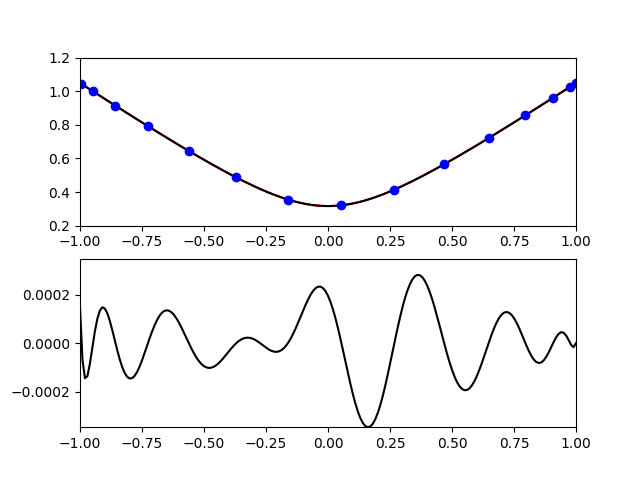
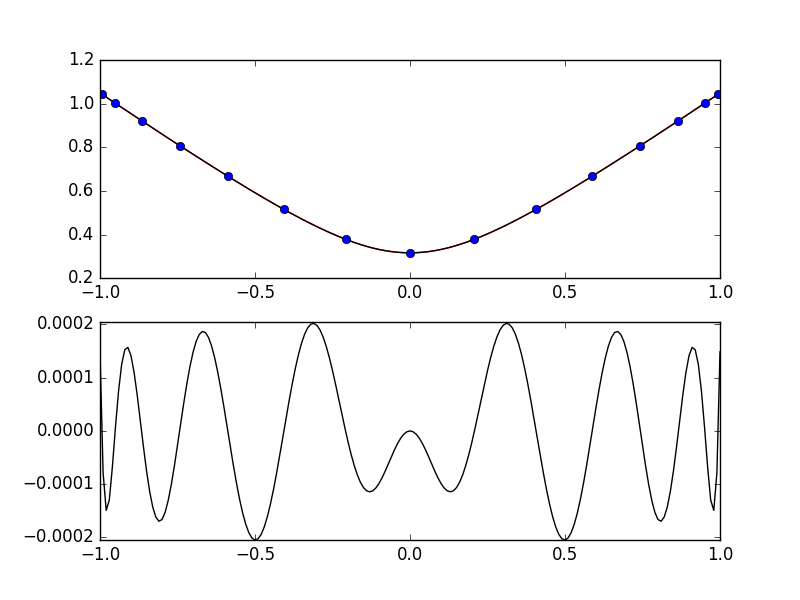
hw4 working

diff --git a/hw04.tex b/hw04.tex
@@ -227,16 +227,16 @@ def p4b():
 	
 	The code above gives the following output.
 	\begin{lstlisting}
-Equispaced points:
+Equispaced points
 Eucidian norm: 0.084877
 Infinity norm: 0.024440
-First kind Chebyshev points:
-Eucidian norm: 0.001919
-Infinity norm: 0.000347
-Second kind Chebyshev points:
+First kind Chebyshev points
+Eucidian norm: 0.001745
+Infinity norm: 0.000205
+Second kind Chebyshev points
 Eucidian norm: 0.001945
 Infinity norm: 0.000266
-Legendre points:
+Legendre points
 Eucidian norm: 0.001945
 Infinity norm: 0.000621
 	\end{lstlisting}
@@ -265,6 +265,9 @@ Infinity norm: 0.000621
 %	\includegraphics[width=.85\textwidth]{hw4_figure_3} \\
 %	\includegraphics[width=.85\textwidth]{hw4_figure_4} \\
 %	%\input{images/hw4_figure_1_tikz}
+
+
+***********************************************************************
 
 	In each of the four figures the top subplot has the function $f(x) = \sqrt{x^2 + .1}$  in black, along with the interpolating polynomial in red, and the sample points in blue. The bottom subplot has the difference between the function and the interpolating polynomial. Note that the interpolating polynomial is so close to the function in figures 2-3 that it is not visible. \bigbreak
 	
@@ -346,6 +349,15 @@ computing the polynomial, the plots, and the slope.
 	$$
 	P_4(x) = \tfrac{1}{4}(x-0)^2 - \tfrac{1}{16}(x-0)^2(x-2)
 	$$
+	
+	We can simplify this and take the derivative
+	\begin{align*}
+		P_4(x) & = \tfrac{1}{4}(x-0)^2 - \tfrac{1}{16}(x-0)^2(x-2) \\
+		& = \tfrac{1}{4}x^2 - \tfrac{1}{16}x^3 + 2\tfrac{1}{16}x^2 \\
+		& = \tfrac{3}{8}x^2 - \tfrac{1}{16}x^3\\
+		P_4^\prime(x) = \tfrac{3}{4}x - \tfrac{3}{16}x^2
+	\end{align*}
+	Then our derivative at $x=2$ is $P_4^\prime(2) = \tfrac{3}{4}$.
 
 	\begin{figure}[H]
 		\caption{The interpolating polynomial with zero slope at the end points}
@@ -356,7 +368,39 @@ computing the polynomial, the plots, and the slope.
 	In figure \ref{fig:p5b}, the interpolating polynomial is in red, the sample points are in blue, and the train tracks are in black. \bigbreak
 	
 %***************************************************************************************************
-\problem{6(c)} Using the same constraints we can also fit two piecwise polynomials that meet at $(2,1)$ and each haveing slope $1$.
+\problem{6(c)} Using the same constraints we can also fit two piecewise polynomials that meet at $(2,1)$ and each having slope $1$. Additionally add the condition that the curves have a second derivative of zero at the ends.
+
+	First we construct the divided difference table for the first piece.
+	\begin{center}
+		\begin{tabular}{|c|c|c|c|c|c|}\hline
+			$x_i$ & $f(x_i)$ & $f[x_{i-1},x_i]$ & $f[x_{x-2}, x_{i-1}, x_i]$ & $f[ x_{i-3}x_{i-2}, x_{i-1}, x_i]$ & $f[ x_{i-4},\dots, x_i]$ \\ \hline
+			0 & 0 & & & & \\ \hline
+			0 & 0 & 0 & & & \\ \hline
+			0 & 0 & 0 & 0 & & \\ \hline
+			2 & 1 & $\tfrac{1}{2}$ & $\tfrac{1}{4}$ & $\tfrac{1}{8}$ & \\ \hline
+			2 & 1 & 1 &  $\tfrac{1}{4}$ & 0 & $-\tfrac{1}{16}$ \\ \hline
+		\end{tabular}
+	\end{center}
+	
+	This gives us the equation $P_4(x) = \tfrac{1}{8}(x-0)^3 - \tfrac{1}{16}(x-0)^3(x-2)$ for $0 \leq x \leq 2$. Next we find calculate the divided difference table for the second piece.
+	\begin{center}
+		\begin{tabular}{|c|c|c|c|c|c|}\hline
+			$x_i$ & $f(x_i)$ & $f[x_{i-1},x_i]$ & $f[x_{x-2}, x_{i-1}, x_i]$ & $f[ x_{i-3}x_{i-2}, x_{i-1}, x_i]$ & $f[ x_{i-4},\dots, x_i]$ \\ \hline
+			2 & 1 & & & & \\ \hline
+			2 & 1 & 1 & & & \\ \hline
+			4 & 2 & $\tfrac{1}{2}$ & $-\tfrac{1}{4}$ & & \\ \hline
+			4 & 2 & 0 & $-\tfrac{1}{4}$ & 0 & \\ \hline
+			4 & 2 & 0 &  0 & $\tfrac{1}{8}$ & $\tfrac{1}{16}$ \\ \hline
+		\end{tabular}
+	\end{center}
+	This gives us the polynomial $Q_4(x) = 1 + 1(x-2) - \tfrac{1}{4}(x-2)^2 + \tfrac{1}{16}(x-2)^2(x-4)^2$ where $2 \leq x \leq 4$. In figure \ref{fig:p5c}, $P_4$ is in red, $Q_4$ is in green, the sample points are in blue, and the train tracks are in black. \bigbreak
+	\begin{figure}[H]
+		\caption{The interpolating polynomial with zero slope at the end points}
+		\includegraphics[width=0.75\textwidth]{hw4_figure_7}
+		\centering
+		\label{fig:p5c}
+	\end{figure}
+	In figure 
 
 	
 	

diff --git a/hw4.py b/hw4.py
@@ -1,6 +1,6 @@
 import numpy as np
 import matplotlib.pyplot as plt
-from matplotlib2tikz import save as tikz_save
+#from matplotlib2tikz import save as tikz_save
 
 
 def polyinterp(u, x, y, w=None):
@@ -34,7 +34,7 @@ def p4b(tikz=False):
     labels.append('Equispaced points:')
     x = []
     for j in range(0,15):
-        x.append( -1* np.cos( (2*j+1)/29 * np.pi))
+        x.append( -1* np.cos( (2*j+1)/30 * np.pi))
     samples.append( np.sort( np.array(x) ) )
     labels.append('First kind Chebyshev points:')
     x = []
@@ -79,8 +79,8 @@ def p4b(tikz=False):
         plt.xlim( (-1, 1) )
         y_range = np.max( np.abs(p-f) )
         plt.ylim( (-y_range, y_range) )
-        if tikz:
-            tikz_save('images/hw4_figure_' + str(file) + '_tikz.tex')
+        #if tikz:
+            #tikz_save('images/hw4_figure_' + str(file) + '_tikz.tex')
         plt.show()
 
 def p5a():
@@ -110,6 +110,26 @@ def p5b():
     f = .25 * u**2 - 1/16 * u**2 * (u-2)
     
     plt.plot(u,f, 'r-')
+    
+    plt.plot( (0,2,4), (0,1,2), 'bo')
+    plt.plot( (-10,10), (2,2), 'k-')
+    plt.plot( (-10,10), (0,0), 'k-')
+    
+    plt.xlim( (-0.5, 4.5) )
+    plt.ylim( (-.5, 2.5) )
+    
+    plt.show()
+
+def p5c():
+    x = np.array( [0,2,4] )
+    y = np.array( [0,1,2] )
+    
+    u = np.linspace(0,2, 100)
+    f = 1/8 * u**3 - 1/16 * u**3 * (u-2)
+    plt.plot(u,f, 'r-')
+    u = np.linspace(2,4, 100)
+    f = 1 + 1 *(u-2) - 1/4 * (u-2)**2 - 1/16 * (u-2)**2 * (u-4)**2
+    plt.plot(u,f, 'g-')
     
     plt.plot( (0,2,4), (0,1,2), 'bo')
     plt.plot( (-10,10), (2,2), 'k-')
